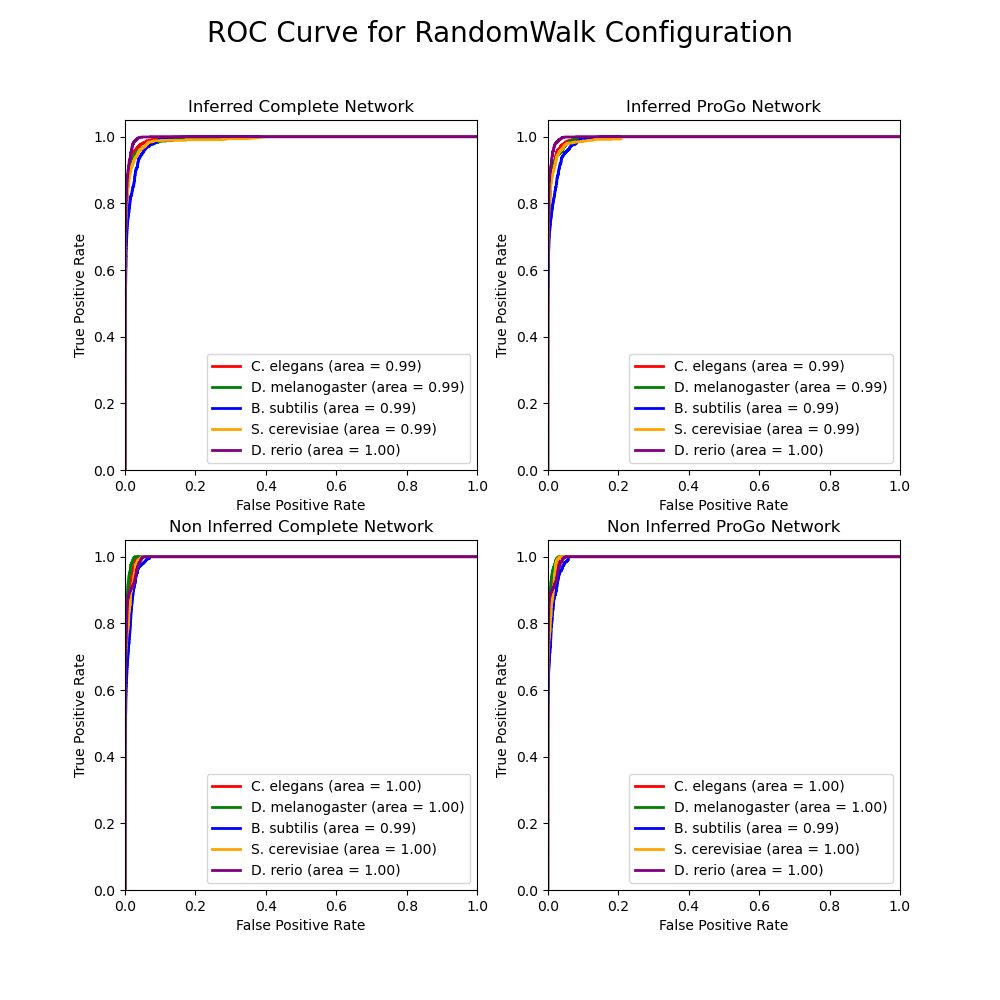
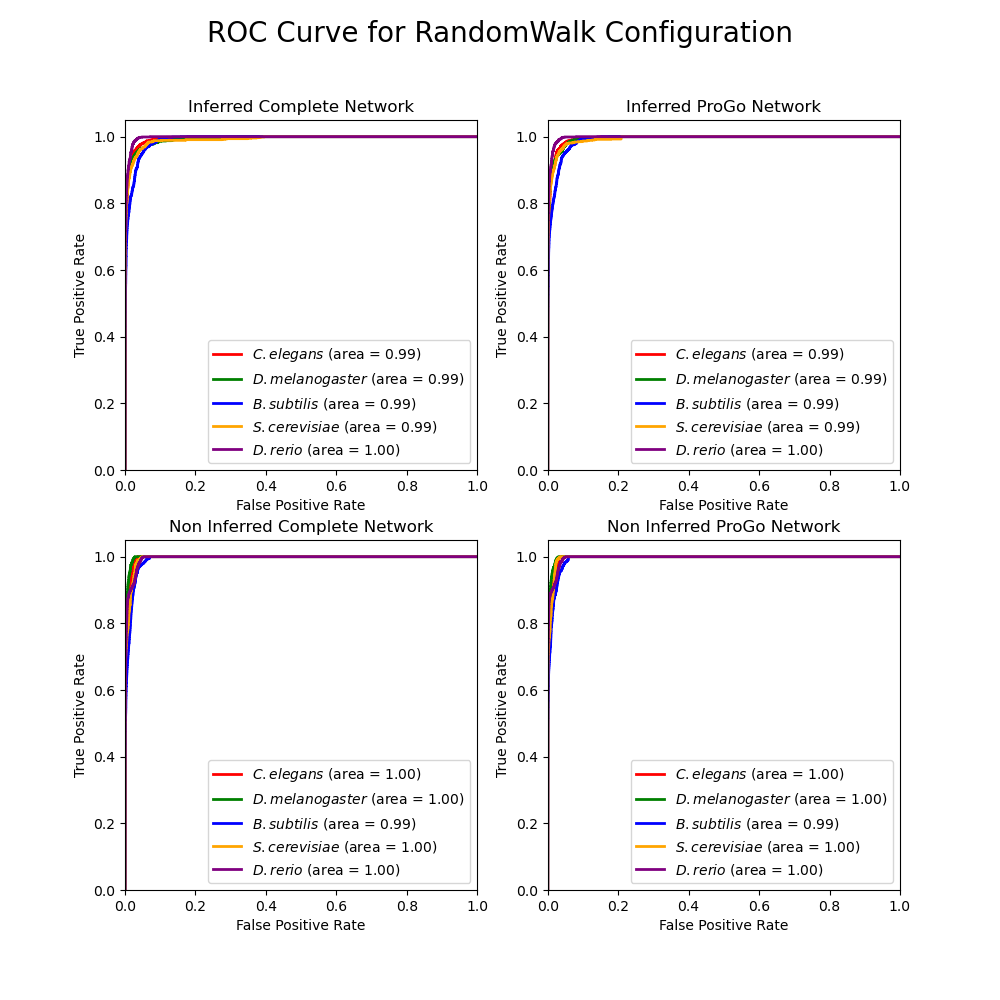
updated figures

diff --git a/generate_figures.py b/generate_figures.py
@@ -117,7 +117,7 @@ def main():
 
         # Create a figure with 2 subplots (one for each species)
         fig, axes = plt.subplots(
-            1, 5, figsize=(20, 6)
+            2, 3, figsize=(20, 6)
         )  # Create a 2x3 grid of subplots
         axes = axes.flatten()
         colors = ["red", "green", "blue", "orange", "purple"]
@@ -139,20 +139,20 @@ def main():
             ax.set_ylim([0.0, 1.05])
             ax.set_xlabel("False Positive Rate" , fontsize=14)
             ax.set_ylabel("True Positive Rate" , fontsize=14 )
-            ax.set_title(f"{species_title[idx].capitalize()}" , fontsize=14)
-            ax.legend(loc="upper center", bbox_to_anchor=(0.5, -0.17), fontsize=12  )
+            ax.set_title(f"${species_title[idx].capitalize()}$", fontsize=14)
+            ax.legend(loc="lower right", fontsize=12  )
 
-        # axes[5].set_visible(False)
+        axes[5].set_visible(False)
         fig.suptitle("ROC Curve for All Species w/ " + subplot_titles[k], fontsize=20)
         # Adjust layout to prevent overlap
-        plt.tight_layout(rect=[0, 0.05, 1, 0.95])  # Adjust rect to accommodate legends
+        plt.tight_layout()  # Adjust rect to accommodate legends
         # Adjust the space between subplots
         plt.subplots_adjust(wspace=0.2)
         plt.savefig(Path("./results/images/", f"roc_{subplot_titles[k].lower().replace(" ", "_")}"))
         plt.show()
 
         fig, axes = plt.subplots(
-            1, 5, figsize=(20, 6)
+            2, 3, figsize=(20, 6)
         )  # Create a 2x3 grid of subplots
         axes = axes.flatten()
         colors = ["red", "green", "blue", "orange", "purple"]
@@ -174,16 +174,16 @@ def main():
             ax.set_ylim([0.0, 1.05])
             ax.set_xlabel("Recall" , fontsize=14)
             ax.set_ylabel("Precision", fontsize=14)
-            ax.set_title(f"{species_title[idx].capitalize()}", fontsize=14)
-            ax.legend(loc="upper center", bbox_to_anchor=(0.5, -0.17), fontsize=12  )
+            ax.set_title(f"${species_title[idx].capitalize()}$", fontsize=14)
+            ax.legend(loc="lower right", fontsize=12  )
 
-        # axes[5].set_visible(False)
+        axes[5].set_visible(False)
         fig.suptitle(
             "Precision/Recall Curve for All Species w/ " + subplot_titles[k],
             fontsize=20,
         )
         # Adjust layout to prevent overlap
-        plt.tight_layout(rect=[0, 0.05, 1, 0.95])  # Adjust rect to accommodate legends
+        plt.tight_layout()  # Adjust rect to accommodate legends
         # Adjust the space between subplots
         plt.subplots_adjust(wspace=0.2)
         plt.savefig(Path("./results/images/", f"pr_{subplot_titles[k].lower().replace(" ", "_")}"))
@@ -242,7 +242,7 @@ def main():
                 final_rw_data[species][idx]["tpr"],
                 color=colors[i],
                 lw=2,
-                label=f"{species_title[i]} (area = %0.2f)" % final_rw_data[species][idx]["roc"],
+                label=f"${species_title[i]}$ (area = %0.2f)" % final_rw_data[species][idx]["roc"],
             )
 
         ax.set_xlim([0.0, 1.0])
@@ -275,7 +275,7 @@ def main():
                 final_rw_data[species][idx]["precision"],
                 color=colors[i],
                 lw=2,
-                label=f"{species_title[i]} (area = %0.2f)" % final_rw_data[species][idx]["pr"],
+                label=f"${species_title[i]}$ (area = %0.2f)" % final_rw_data[species][idx]["pr"],
             )
 
         ax.set_xlim([0.0, 1.0])
